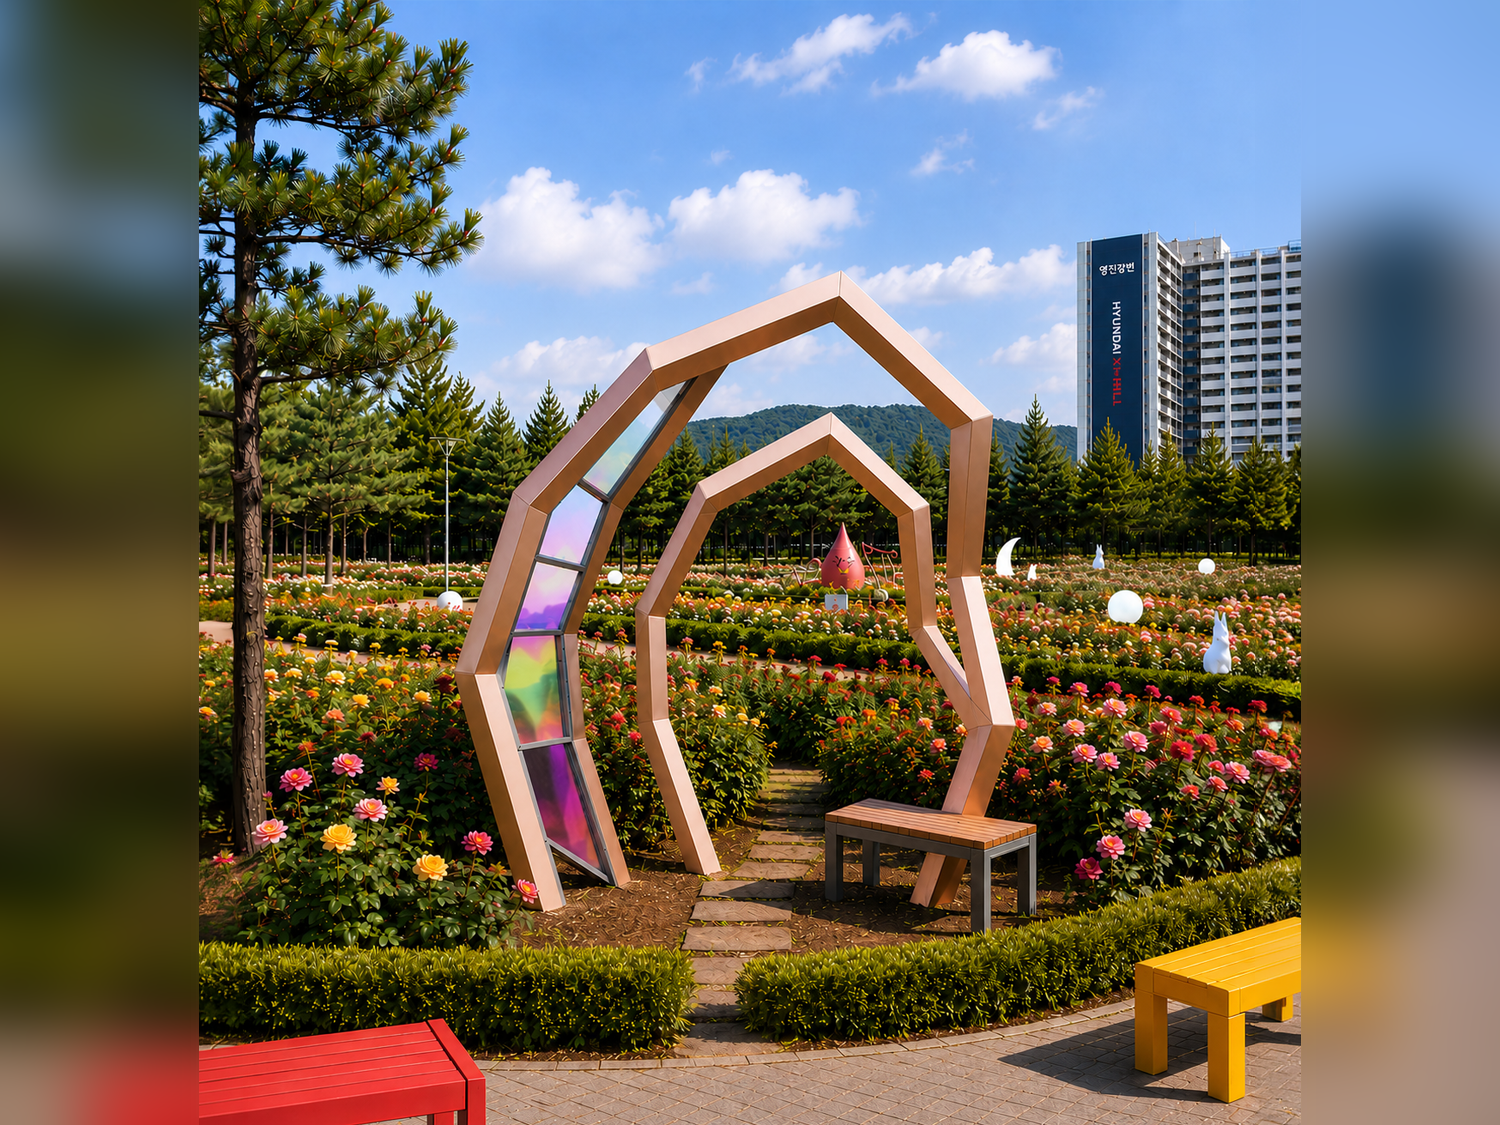
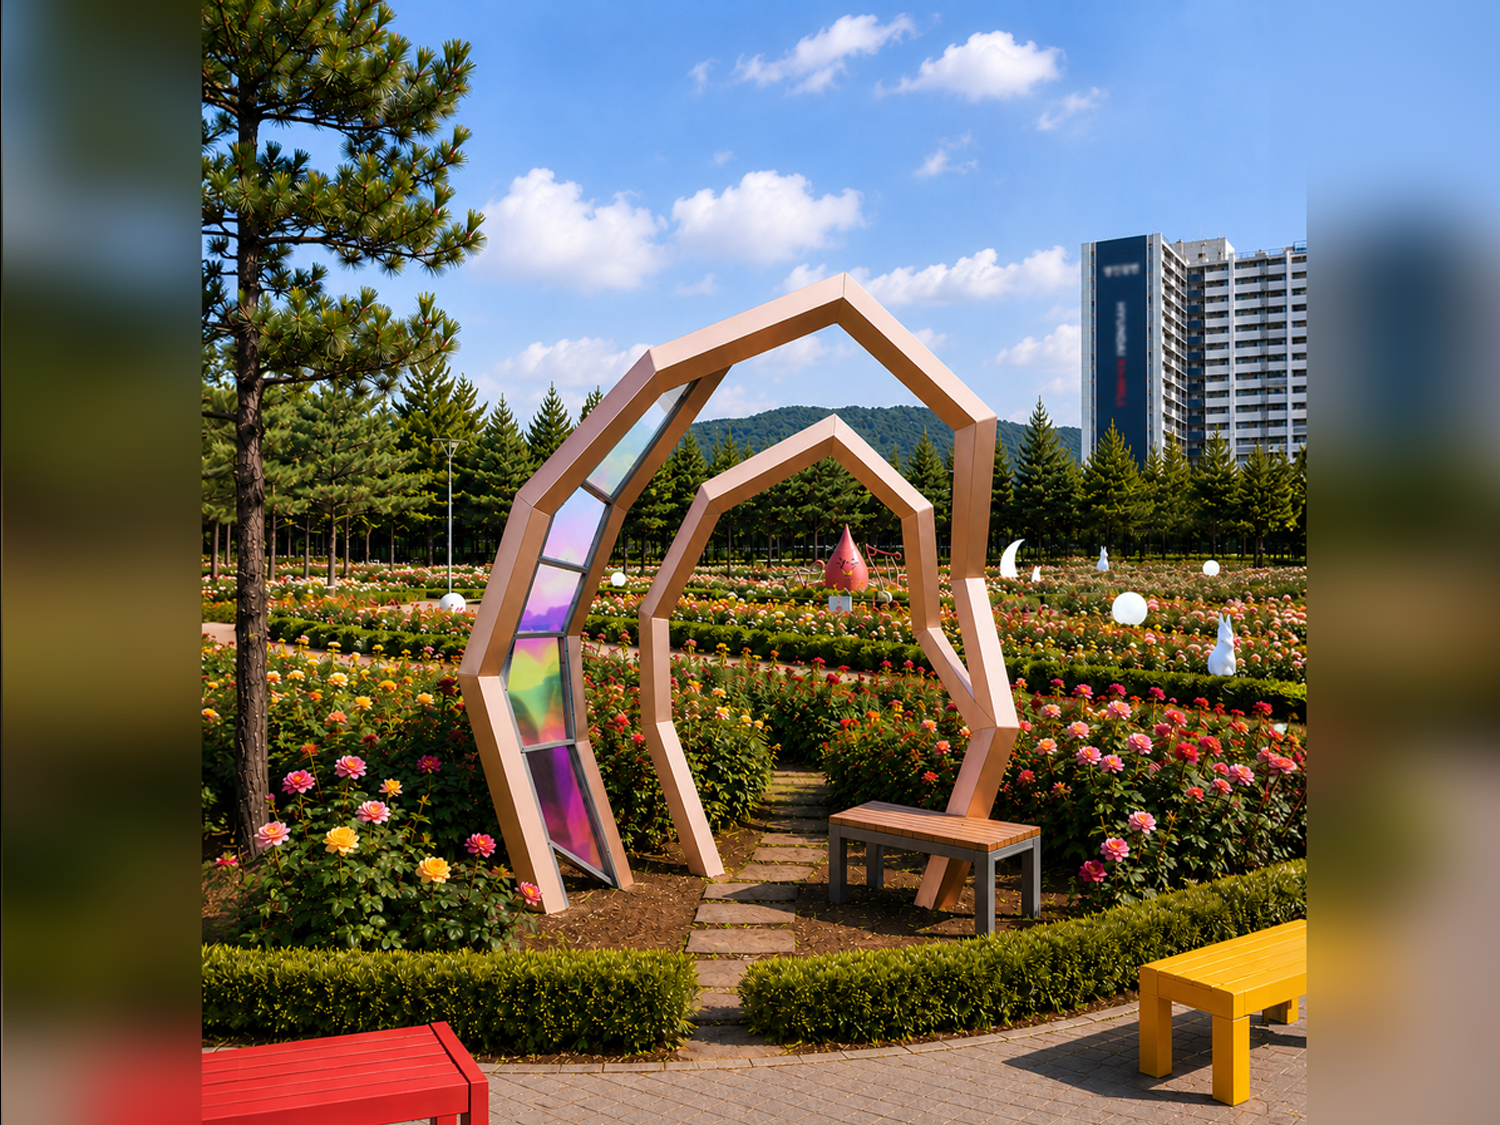
C안 주야간 영상 및 확대 기능 적용

diff --git a/index.html b/index.html
@@ -167,7 +167,7 @@ nav{position:fixed;top:0;left:0;right:0;z-index:200;background:#f21a85;backdrop-
 .sr{display:flex;justify-content:space-between;padding:.55rem 0;border-bottom:1px solid rgba(201,168,76,.12);font-size:.83rem}
 .sl{color:var(--stone)}
 .sv{font-weight:600;color:var(--gold3)}
-.cards{display:grid;grid-template-columns:repeat(2,1fr);gap:2rem;max-width:1500px;margin:0 auto}
+.cards{display:grid;grid-template-columns:repeat(3,1fr);gap:2rem;max-width:1500px;margin:0 auto}
 @media(max-width:900px){.cards{grid-template-columns:repeat(2,1fr)}}
 @media(max-width:480px){.cards{grid-template-columns:1fr}}
 .card{background:rgba(255,255,255,.05);border:2px solid rgba(201,168,76,.5);border-radius:6px;overflow:hidden;cursor:pointer;transition:transform .22s,box-shadow .22s;position:relative}
@@ -243,8 +243,18 @@ footer{background:var(--navy);border-top:2px solid rgba(232,192,122,.45);padding
 .lb{position:fixed;inset:0;z-index:9999;background:rgba(0,0,0,.92);display:flex;align-items:center;justify-content:center;padding:1.5rem;opacity:0;pointer-events:none;transition:opacity .2s;cursor:zoom-out}
 .lb.open{opacity:1;pointer-events:all}
 .lb img{max-width:90vw;max-height:90vh;object-fit:contain;border-radius:3px;box-shadow:0 0 80px rgba(0,0,0,.6);cursor:zoom-out}
+#lbv{
+  display:none;
+  max-width:90vw;
+  max-height:90vh;
+  border-radius:3px;
+}
 .lbx{position:absolute;top:1rem;right:1.2rem;background:rgba(255,255,255,.12);border:1px solid rgba(255,255,255,.2);color:rgba(255,255,255,.8);font-size:1.3rem;width:34px;height:34px;border-radius:50%;cursor:pointer;display:flex;align-items:center;justify-content:center;z-index:1}
 .lbx:hover{background:rgba(255,255,255,.25)}
+.video-zoom-overlay{position:fixed;inset:0;z-index:9998;background:rgba(0,0,0,.92);display:none;align-items:center;justify-content:center;padding:1.5rem;cursor:zoom-out}
+.video-zoom-overlay.open{display:flex}
+.video-zoom-overlay video{max-width:92vw;max-height:90vh;border-radius:4px;box-shadow:0 0 80px rgba(0,0,0,.6)}
+#cVideoWrap{cursor:zoom-in}
 .fi{opacity:0;transform:translateY(16px);transition:opacity .55s ease,transform .55s ease}
 .fi.vis{opacity:1;transform:none}
 .fi.d1{transition-delay:.1s}.fi.d2{transition-delay:.2s}
@@ -329,6 +339,13 @@ opacity:.95;
   width:auto;
   filter:brightness(0) invert(1);
 }
+.proposal-video{
+  width:100%;
+  height:100%;
+  object-fit:cover;
+  border-radius:3px;
+  display:block;
+}
 </style>
 </head>
 <body>
@@ -336,8 +353,12 @@ opacity:.95;
 <div class="lb" id="lb">
   <button class="lbx" onclick="closeLb()">×</button>
   <img id="lbi" src="" alt="확대"/>
+  <video id="lbv" controls></video>
 </div>
 
+<div class="video-zoom-overlay" id="videoZoomOverlay">
+  <video id="videoZoomEl" src="images/rose-day-night.mp4" autoplay muted loop playsinline></video>
+</div>
 <nav>
   <div class="nav-in">
     <a href="#home" class="nav-brand">포토존 디자인 제안</a>
@@ -346,7 +367,7 @@ opacity:.95;
       <li><a href="#overview" onclick="closeNav()">개요</a></li>
       <li><a href="#comparison" onclick="closeNav()">시안 비교</a></li>
       <li><a href="#details" onclick="closeNav()">상세 보기</a></li>
-      <li><a href="#recommendation" onclick="closeNav()">개대 효과</a></li>
+      <li><a href="#recommendation" onclick="closeNav()">기대 효과</a></li>
     </ul>
   </div>
 </nav>
@@ -355,7 +376,7 @@ opacity:.95;
   <div class="hero-bg" id="heroBg"></div>
   <div class="hero-body">
     <div class="hero-label">장미 정원 포토존 · 2026</div>
-    <h1 id="heroTitle">기장군 정관 어린이도서관<br/><em>조형물 디자인 제안</em></h1>
+    <h1 id="heroTitle">기장군 정관 윗골공원 장미정원<br/><em>조형물 디자인 제안</em></h1>
     <p id="heroSub">자연경관과 조화로운 포토존 설치를 위한 시안입니다.</p>
     <div class="hero-btns">
       <a href="#comparison" class="btn-g">시안 비교 보기</a>
@@ -405,14 +426,14 @@ opacity:.95;
 </p>
         <div class="spec-list">
           <div class="sr"><span class="sl">위치</span><span class="sv">정관 윗골공원</span></div>
-          <div class="sr"><span class="sl">제안 시안</span><span class="sv">2종 (A·B안) 장미정원 포토존 조형물</span></div>
+          <div class="sr"><span class="sl">제안 시안</span><span class="sv">3종 (A·B·C안) 장미정원 포토존 조형물</span></div>
           <div class="sr"><span class="sl">주요 재질</span><span class="sv">스테인리스 스틸, 광학산PC패널 외</span></div>
           <div class="sr"><span class="sl">문서 번호</span><span class="sv">DR-2026-0629 (v2.0)</span></div>
         </div>
       </div>
       <div class="fi d1">
         <div class="ov-img">
-          <img src="images/c-main.png" alt="포토존 시안 이미지" onclick="openLb(this.src)"/>
+          <img src="images/cc-main.png" alt="포토존 시안 이미지" onclick="openLb(this.src)"/>
         </div>
       </div>
     </div>
@@ -447,6 +468,15 @@ opacity:.95;
         </div>
       </div>
 
+      <div class="card" onclick="goTo('det-c')">
+        <div class="ci"><img src="images/c-main.png" alt="C안" onclick="openLb(this.src);event.stopPropagation()"/></div>
+        <div class="cb">
+          <div class="ctag">C안</div>
+          <div class="cname">장미정원<br/>야간 힐링 포토존</div>
+          <div class="csumm">은은한 조명과 장미가 어우러진 감성 야간 포토존</div>
+        </div>
+      </div>
+
       </div>
 
     </div>
@@ -478,8 +508,8 @@ opacity:.95;
           </div>
           <div class="db"><h5>시공성 &amp; 유지관리</h5>
             <div class="fbox">
-              <div class="fr"><span class="flbl">시공 난이도</span><div class="dots"><div class="dot g"></div><div class="dot g"></div><div class="dot g"></div><div class="dot"></div><div class="dot"></div></div></div>
-              <div class="fr"><span class="flbl">유지 관리</span><div class="dots"><div class="dot b"></div><div class="dot b"></div><div class="dot b"></div><div class="dot"></div><div class="dot"></div></div></div>
+              <div class="fr"><span class="flbl">시공 난이도</span><div class="dots"><div class="dot g"></div><div class="dot g"></div><div class="dot g"></div><div class="dot g"></div><div class="dot"></div></div></div>
+              <div class="fr"><span class="flbl">유지 관리</span><div class="dots"><div class="dot b"></div><div class="dot b"></div><div class="dot b"></div><div class="dot b"></div><div class="dot"></div></div></div>
             </div>
           </div>
         </div>
@@ -521,6 +551,40 @@ opacity:.95;
   </div>
 </div>
 
+<div class="det" id="det-c">
+  <div class="wrap">
+    <div class="det-g fi">
+      <div class="img-row">
+<div class="dim" id="cVideoWrap" onclick="toggleVideoZoom(event)">
+<video id="cVideo" class="proposal-video" src="images/rose-day-night.mp4" autoplay muted loop playsinline></video></div>
+        <div class="dim"><img src="images/c-main_TC.png" alt="C안 기술도면" onclick="openLb(this.src)"/></div>
+      </div>
+      <div class="di">
+        <div class="dbadge2"><span class="tag tc">C안</span></div>
+        <div class="dtitle">Rose Glass Pavilion 장미와 빛이 머무는 정원</div>
+        <div class="dsumm">은은한 조명과 장미가 어우러진 감성 야간 포토존</div>
+        <div class="dblocks">
+          <div class="db"><h5>디자인 콘셉트</h5><p>장미와 빛의 색채를 모티브로 한 감성형 포토존으로, 다이크로익 필름을 적용한 PC 패널이 시간에 따라 변화하는 아름다운 색감을 연출합니다.</p></div>
+          <div class="db"><h5>주요 특징</h5>
+            <ul class="fl">
+             <li>다이크로익 필름 적용 PC패널과 장미 패턴 조형물</li>
+             <li>빛과 색채가 어우러지는 감성형 포토존</li>
+             <li>벤치와 일체화된 휴식·체험 공간 조성</li>
+             <li>가족·연인·관광객 모두가 즐기는 포토 스팟</li>
+            </ul>
+          </div>
+          <div class="db"><h5>시공성 &amp; 유지관리</h5>
+            <div class="fbox">
+              <div class="fr"><span class="flbl">시공 난이도</span><div class="dots"><div class="dot g"></div><div class="dot g"></div><div class="dot g"></div><div class="dot g"></div><div class="dot"></div></div></div>
+              <div class="fr"><span class="flbl">유지관리</span><div class="dots"><div class="dot b"></div><div class="dot b"></div><div class="dot b"></div><div class="dot b"></div><div class="dot"></div></div></div>
+            </div>
+          </div>
+        </div>
+      </div>
+    </div>
+  </div>
+</div>
+
 </div>
 
 <section class="sec" id="recommendation">
@@ -538,7 +602,8 @@ opacity:.95;
 
 <p class="rdesc">
 장미정원의 아름다운 경관과 조화를 이루는 포토존을 통해 방문객에게 새로운 공간 경험을 제공하고,
-지역의 대표적인 포토 명소로 활용될 수 있는 기대효과를 제안합니다.
+지역의 대표적인 포토 명소로 활용될 수 있는 기대효과를 제안합니다. 
+<p>모든 시안은 시뮬레이션 이미지이며, 실제 시공 결과와 차이가 있을 수 있습니다.</p>
 </p>
 
 <div class="rg">
@@ -571,7 +636,7 @@ opacity:.95;
     <h5>지역 관광 활성화</h5>
     <p>지역의 대표 포토 스팟으로 자리매김하여 방문객 유입과 재방문을 유도합니다.</p>
   </div>
-</div>
+ </div>
       </div>
     </div>
   </div>
@@ -596,6 +661,32 @@ opacity:.95;
 function toggleNav(){document.getElementById('nl').classList.toggle('open')}
 function closeNav(){document.getElementById('nl').classList.remove('open')}
 function goTo(id){const el=document.getElementById(id);if(el)el.scrollIntoView({behavior:'smooth',block:'start'})}
+
+// VIDEO ZOOM TOGGLE — C안 동영상 클릭 시 확대, 다시 클릭하면 원위치
+function toggleVideoZoom(e){
+  if(e) e.stopPropagation();
+  const overlay=document.getElementById('videoZoomOverlay');
+  const overlayVideo=document.getElementById('videoZoomEl');
+  const src=document.getElementById('cVideo');
+  if(overlay.classList.contains('open')){
+    overlay.classList.remove('open');
+    document.body.style.overflow='';
+  } else {
+    overlayVideo.currentTime = src.currentTime;
+    overlay.classList.add('open');
+    document.body.style.overflow='hidden';
+    overlayVideo.play().catch(()=>{});
+  }
+}
+document.getElementById('videoZoomOverlay').addEventListener('click',function(e){
+  toggleVideoZoom();
+});
+document.addEventListener('keydown',function(e){
+  if(e.key==='Escape'){
+    const overlay=document.getElementById('videoZoomOverlay');
+    if(overlay.classList.contains('open')) toggleVideoZoom();
+  }
+});
 
 // LIGHTBOX — 이미지 클릭·배경 클릭·ESC 모두 닫힘
 function openLb(src){